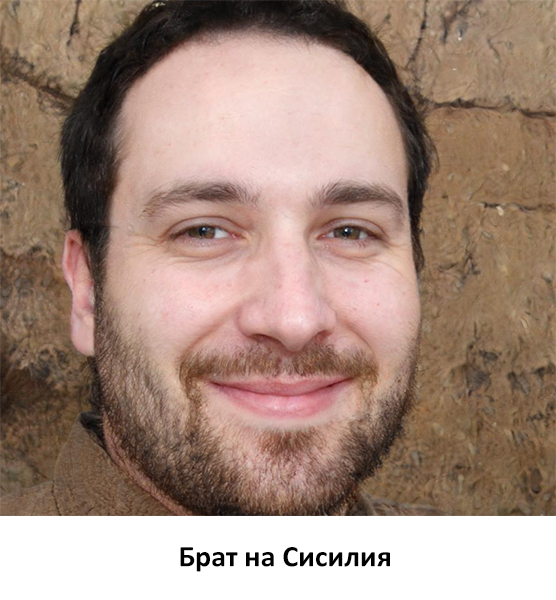
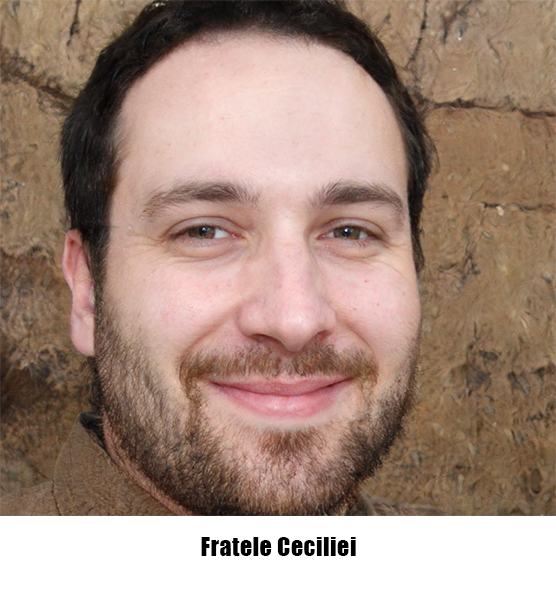
Maria check answer

Changed region(s): [[0.3058, 0.9, 0.7032, 0.96]]

diff --git a/script.js b/script.js
@@ -88,14 +88,14 @@ function additionalinfo_maria(){
     suspectsdiv.style.display="none"
 
     let uliki = [
-        "Разпит с Морело №2",
-        "Разпит с Морело №1",
-        "Разпит със Сисилия",
-        "Разпит с Дрейк",
-        "Вестник",
-        "Снимки на панаира",
-        "Разпит с Мартин",
-        "Лист с цитати от библията"
+        "Interogatoriu cu Morello #2",
+        "Interogatoriu cu Morello #1",
+        "Interogatoriu cu Cecilia",
+        "Interogatoriu cu Drake",
+        "Ziarul",
+        "Pictures at the Fair",
+       "Interogatoriu cu Martin",
+        "Foaie cu citate biblice"
     ]
 
     let additionalinfo_div = document.querySelector(".additional_info")
@@ -152,14 +152,14 @@ check_answer_btn.addEventListener("click", function(){
     let text = document.querySelector(".result h2")
     if(isithundred>80){
         tryagain_button.style.display = "none"
-        text.innerHTML = "Вашият отговор е правилен!"
-        document.querySelector(".result p").innerHTML = "Тъй, като цитатите от библията, самата библия и адресната книга са намерени в стаята на Мария това води до мисълта, че тя е правила собствено разследване за убийствата споменати в разпит с Морело №2. Убийствата са извършени от бащата на Мартин и Мария така и от самия Мартин. Мария е разбрала за това и е искала да каже на г-н Дрейк, но той я е отпратил, защото е била твърде зает. Мартин убива Мария за да може тази негова тайна да остане скрита и той да бъде начело на компанията."
+        text.innerHTML = "Răspunsul dumneavoastră este corect!"
+        document.querySelector(".result p").innerHTML = "Din moment ce citatele din Biblie, Biblia însăși și agenda au fost găsite în camera Mariei, acest lucru duce la ideea că ea făcea propria investigație asupra crimelor menționate în interogatoriul cu Morello #2. Crimele au fost comise atât de tatăl lui Martin și al Mariei, cât și de Martin însuși. Maria a aflat și a vrut să îi spună domnului Drake, dar acesta a alungat-o pentru că era prea ocupată. Martin o ucide pe Maria pentru ca acest secret al său să rămână ascuns și el să poată fi la conducerea companiei."
     }
     if(isithundred<50){
-        text.innerHTML = "Вашият отговор е грешен!"
+        text.innerHTML = "Răspunsul tău este greșit!"
     }
     if(isithundred>50 && isithundred < 90){
-        text.innerHTML = "Близо сте до отговора!"
+        text.innerHTML = "Sunteți aproape de răspuns!"
     }
 })
 

diff --git a/index.html b/index.html
@@ -37,7 +37,7 @@
         
 
         <div class="result" style="display: none;">
-            <h1>Резултат <span>100</span>%</h1>
+            <h1>Rezultat <span>100</span>%</h1>
             <h2>Вашия отговор е грешен.</h2>
             <button class="btn btn-success" id="tryagain">Опитай пак</button>
             <p></p>
